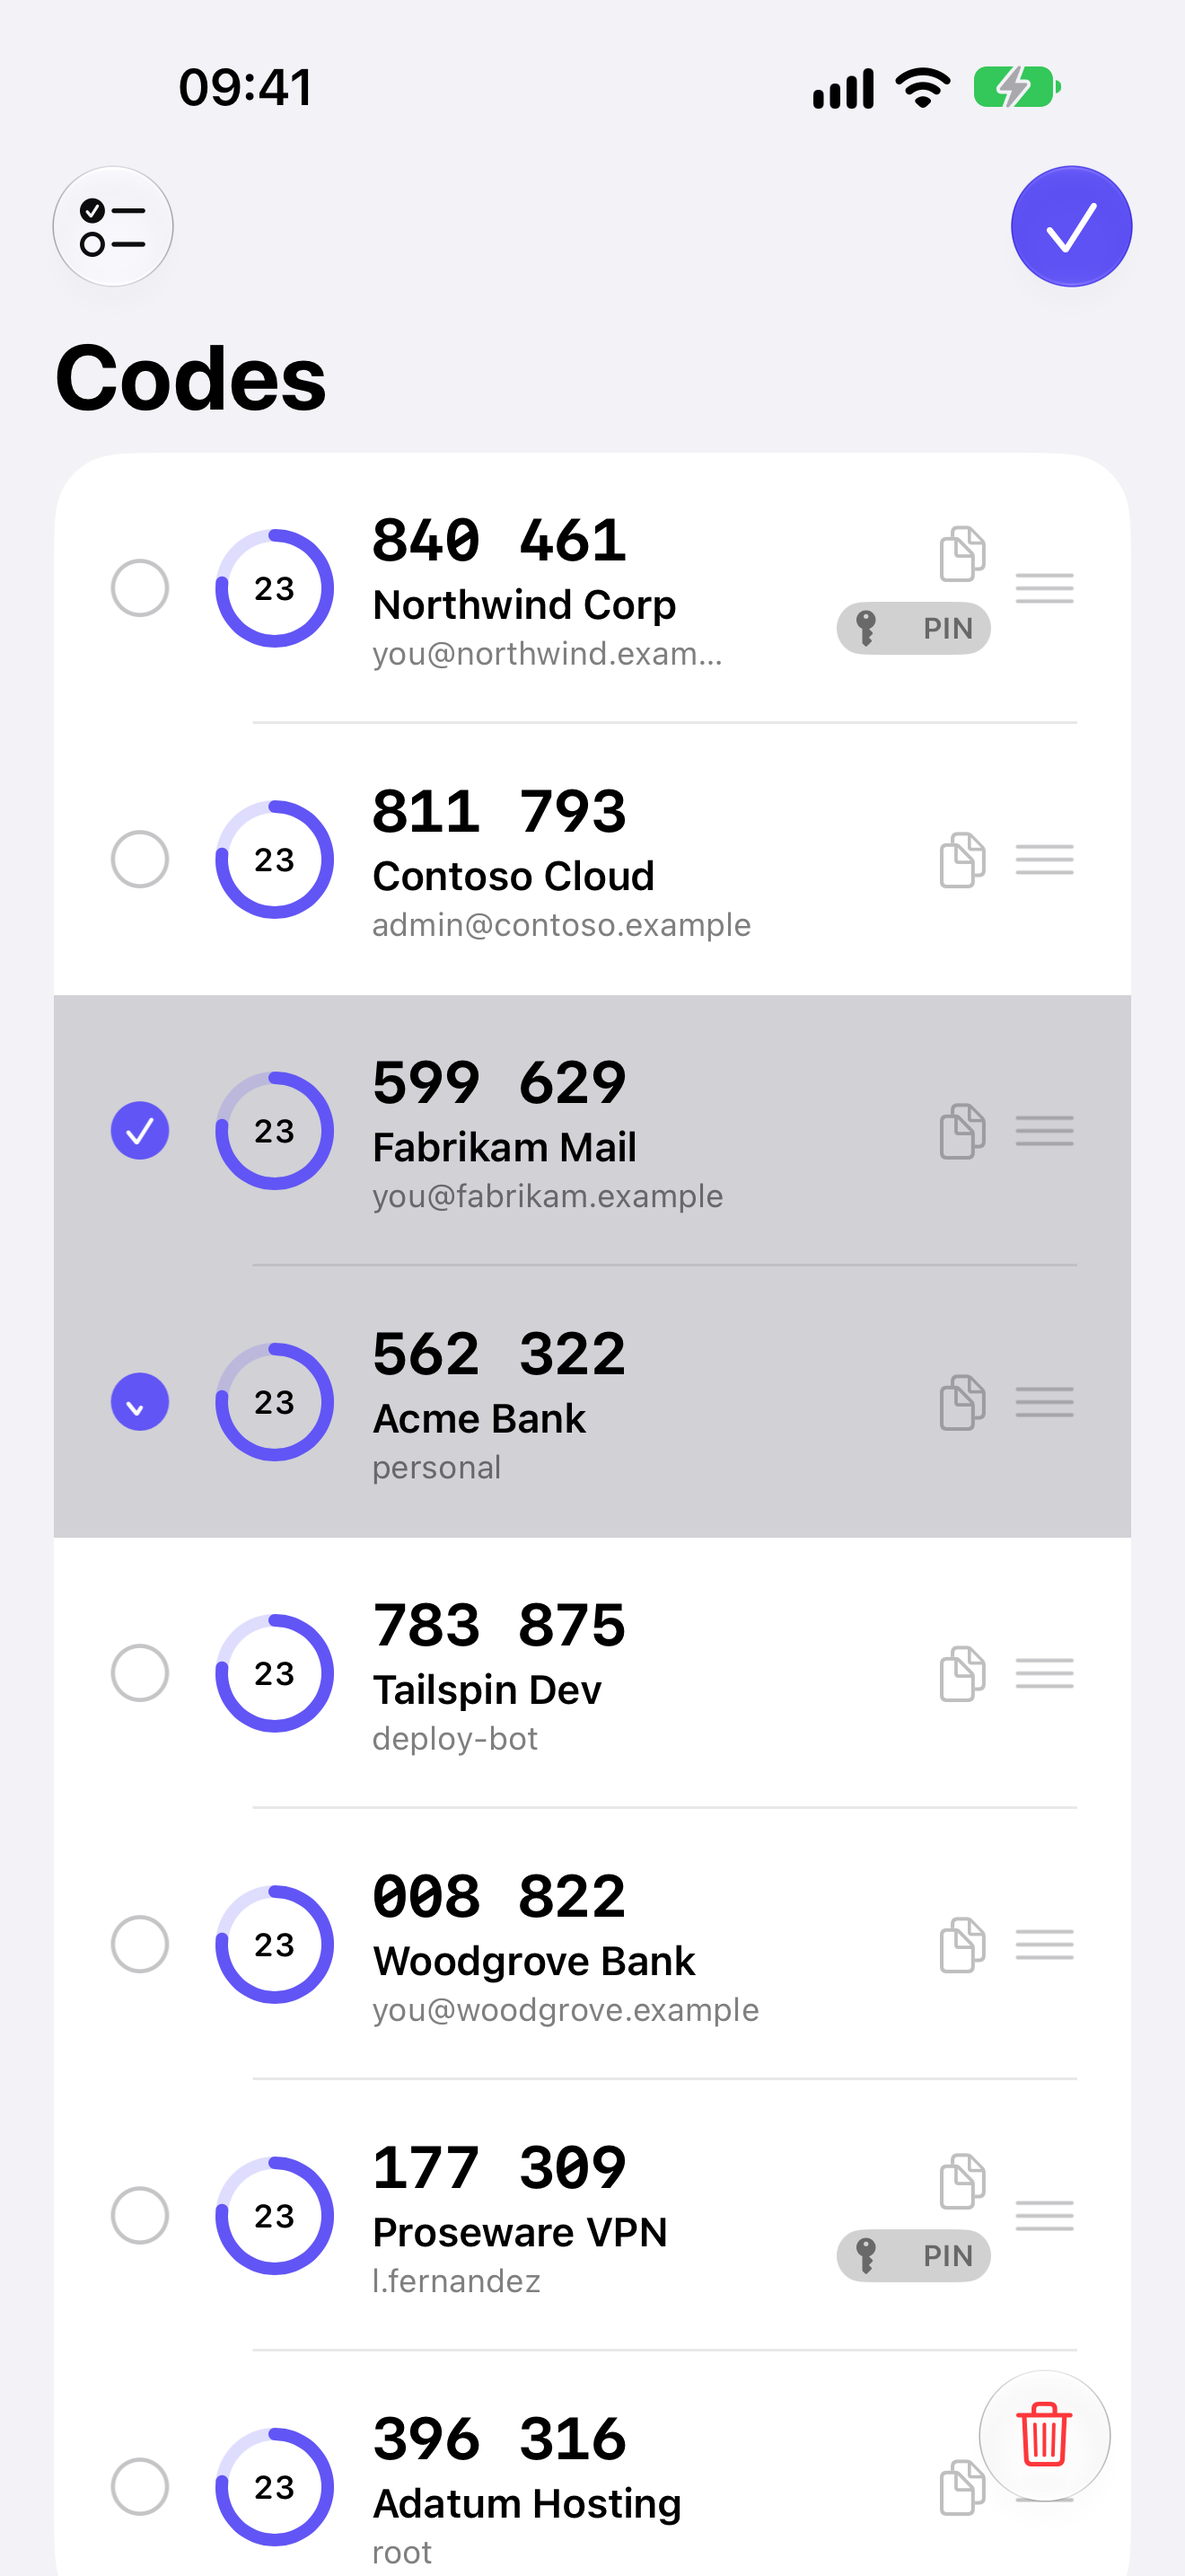
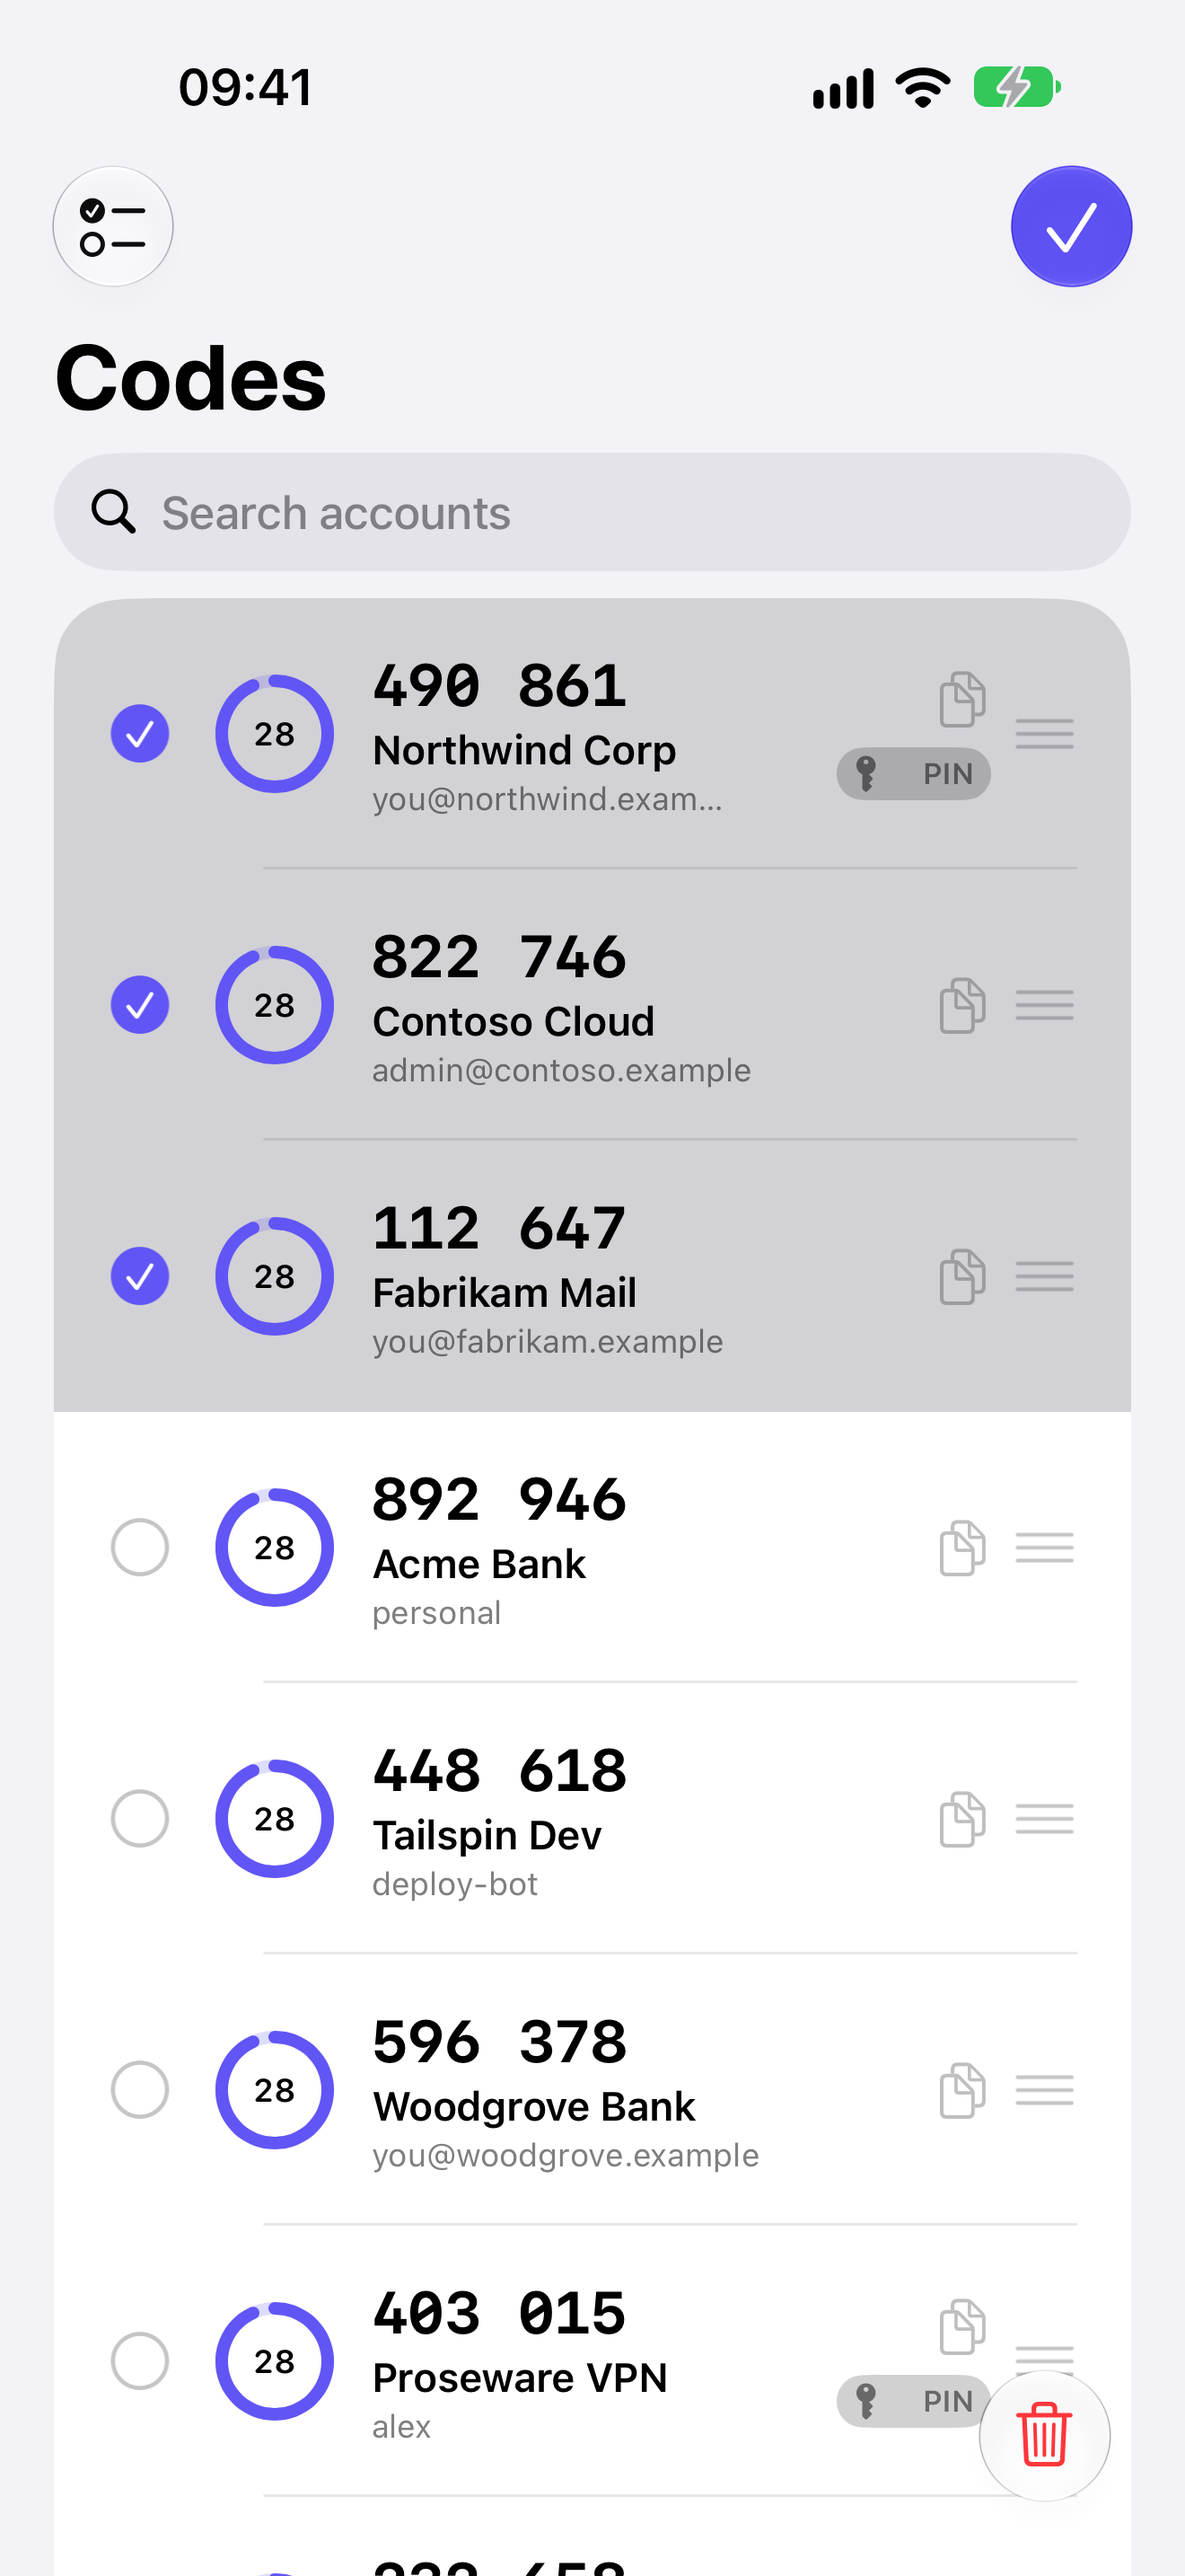
chore(app): 4.6 screenshots and review notes
- Selection scene opens via -ScreenshotScene and waits for fresh codes;
  Mac screenshot window 1040x650 so the cards fill it
- App Review notes cover the Apple Watch app
- Refreshed site and docs screenshots

diff --git a/TOTP/TOTPApp.swift b/TOTP/TOTPApp.swift
@@ -195,8 +195,8 @@ class MacAppDelegate: NSObject, NSApplicationDelegate {
 
     #if DEBUG
     /// Puts the window at a known place and size so `scripts/export-screenshots.sh` can capture it
-    /// without needing Accessibility permission. 1440x900 points captures at 2880x1800 — an
-    /// App Store–accepted Mac size.
+    /// without needing Accessibility permission. 1040x650 points (2080x1300 captured) fills the
+    /// window with three columns of cards; the framer scales it onto the 2880x1800 App Store canvas.
     private func positionWindowForScreenshotsIfNeeded() {
         guard AppEnvironment.isTakingScreenshots else { return }
         // Always the primary (menu bar) display: its frame origin is (0, 0), which is the space
@@ -204,7 +204,7 @@ class MacAppDelegate: NSObject, NSApplicationDelegate {
         // with a second display it silently puts the window in another coordinate space.
         guard let screen = NSScreen.screens.first else { return }
 
-        let size = CGSize(width: 1440, height: 900)
+        let size = CGSize(width: 1040, height: 650)
         let insetFromTop: CGFloat = 100
 
         func mainWindows() -> [NSWindow] {

diff --git a/TOTP/View/ContentView.swift b/TOTP/View/ContentView.swift
@@ -125,7 +125,7 @@ public struct ContentView: View {
         .onDeleteCommand { if isSelecting && !selection.isEmpty { confirmBatchDelete = true } }
         #endif
         #if DEBUG
-        .task { applyScreenshotScene() }
+        .task { await applyScreenshotScene() }
         #endif
         .sensoryFeedback(.success, trigger: copyCount)
         .sheet(item: $sheet) { sheet in
@@ -366,10 +366,12 @@ public struct ContentView: View {
     #if DEBUG
     /// Opens the state named by `-ScreenshotScene` so `scripts/export-screenshots.sh` can shoot the
     /// Mac listing without Accessibility permission. Debug-only: release builds ignore the argument.
-    private func applyScreenshotScene() {
+    private func applyScreenshotScene() async {
         switch AppEnvironment.screenshotScene {
         case "select":
             isSelecting = true
+            // Entering edit mode resets a List's selection, so tick the accounts once it has
+            try? await Task.sleep(for: .milliseconds(600))
             selection = Set(syncManager.accounts.prefix(3).map(\.id))
         case "add":
             sheet = .add(nil)

diff --git a/scripts/frame-screenshots.swift b/scripts/frame-screenshots.swift
@@ -5,7 +5,7 @@
 //   swift scripts/frame-screenshots.swift [--locales en-US,es-ES,de-DE,fr-FR] [--raw-locale en-US] [--only <prefix>]
 //
 // In:   fastlane/screenshots_raw/<locale>/<prefix>-<NN-scene>.png   (iphone-69, ipad-13, duo-outer, duo-inner, watch)
-//       fastlane/screenshots_mac_raw/<locale>/<NN-scene>.png          (2880x1800 window captures)
+//       fastlane/screenshots_mac_raw/<locale>/<NN-scene>.png          (window captures, scaled onto the 2880x1800 canvas)
 //       fastlane/screenshot_captions/<locale>.json                    {"01-codes": {"title", "subtitle", "style"}}
 // Out:  fastlane/screenshots/<locale>/…  and  fastlane/screenshots_mac/<locale>/…  (what fastlane deliver reads;
 //       it picks the display type by pixel size, so every canvas size below is exact)

diff --git a/TOTPUITests/ScreenshotTests.swift b/TOTPUITests/ScreenshotTests.swift
@@ -92,6 +92,7 @@ final class ScreenshotTests: XCTestCase {
         app.terminate()
         launch(scene: "select")
         XCTAssertTrue(app.buttons["doneSelectingButton"].waitForExistence(timeout: 10))
+        waitForFreshCodes()
         capture("03-select")
 
         // The list in Dark Mode (Apple recommends showing it)

diff --git a/docs/RELEASE.md b/docs/RELEASE.md
@@ -106,7 +106,8 @@ once per shot with `-ScreenshotMode -ScreenshotScene <name>` (`select`, `add`, o
 plain list); `ContentView.applyScreenshotScene()` opens that state directly. Both flags are
 `#if DEBUG` only — a release build ignores them.
 
-The app sizes its own window to 1440×900 points, which captures at 2880×1800. AppKit can still
+The app sizes its own window to 1040×650 points (2080×1300 captured), which the framer scales onto
+the 2880×1800 canvas; a larger window leaves the cards tiny in a sea of white. AppKit can still
 move it (the menu bar clamps it, and `NSScreen.main` is the *focused* screen, not necessarily the
 one being captured), so the app writes the frame it actually ended up with to
 `~/Library/Group Containers/group.com.lucferbux.TOTP/screenshot-window-frame` and the script
